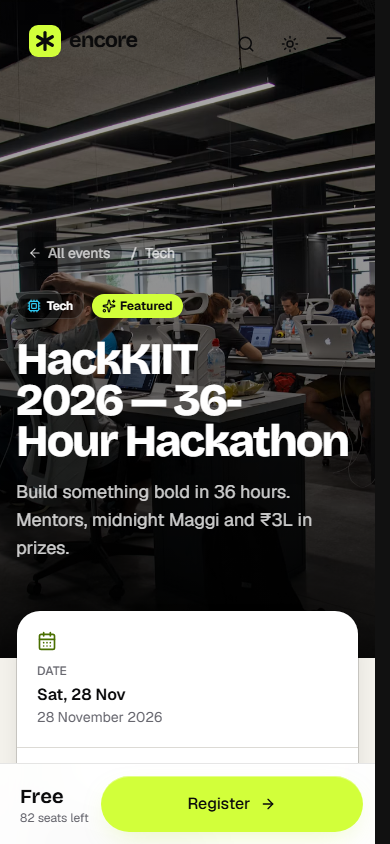
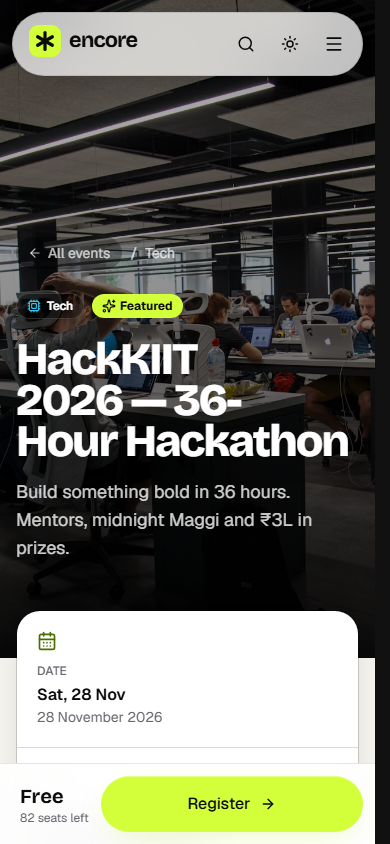
Fail fast when the database is unreachable
- API: after a failed Mongo connection, return 503 immediately for 20s
  (circuit breaker) and lower the server-selection timeout to 5s, so
  requests don't each wait on the driver before erroring.
- Client: once the bundled catalogue fallback is active, give live
  requests a 4s timeout before falling back again.
- Refresh the mobile event-page screenshot.

Changed region(s): [[0.0308, 0.0, 0.9538, 0.0924]]

diff --git a/server/src/config/db.js b/server/src/config/db.js
@@ -10,7 +10,13 @@ mongoose.set('strictQuery', true);
  * Serverless-friendly connection cache: warm invocations reuse the same
  * connection instead of opening a new pool on every request.
  */
-const cache = (globalThis.__encoreMongo ??= { conn: null, promise: null, seeded: false });
+const cache = (globalThis.__encoreMongo ??= { conn: null, promise: null, seeded: false, failedAt: 0 });
+
+// Circuit breaker: after a failed connection, fail fast for a short while instead of making
+// every request wait for the driver's server-selection timeout (the UI falls back instantly).
+const RETRY_AFTER_MS = 20_000;
+const unavailable = () =>
+  new HttpError(503, 'We could not reach the database. Please try again in a moment.', { code: 'DB_UNAVAILABLE' });
 
 export async function connectDB() {
   if (cache.conn && mongoose.connection.readyState === 1) return cache.conn;
@@ -19,10 +25,12 @@ export async function connectDB() {
     throw new HttpError(503, 'The database is not configured yet.', { code: 'DB_NOT_CONFIGURED' });
   }
 
+  if (!cache.promise && Date.now() - cache.failedAt < RETRY_AFTER_MS) throw unavailable();
+
   if (!cache.promise) {
     cache.promise = mongoose
       .connect(env.mongoUri, {
-        serverSelectionTimeoutMS: 8000,
+        serverSelectionTimeoutMS: 5000,
         maxPoolSize: 10,
         bufferCommands: false,
         appName: 'encore-api',
@@ -36,10 +44,9 @@ export async function connectDB() {
   try {
     cache.conn = await cache.promise;
   } catch (err) {
+    cache.failedAt = Date.now();
     console.error('[db] connection failed:', err.message);
-    throw new HttpError(503, 'We could not reach the database. Please try again in a moment.', {
-      code: 'DB_UNAVAILABLE',
-    });
+    throw unavailable();
   }
 
   if (env.seedOnEmpty && !cache.seeded) {

diff --git a/client/src/lib/api.js b/client/src/lib/api.js
@@ -67,7 +67,8 @@ export const isUnavailable = (err) => err instanceof ApiError && (err.status ===
  */
 async function withFallback(request, fallback) {
   try {
-    const data = await request();
+    // Already serving cached data? Don't keep users waiting on a slow/unhealthy API.
+    const data = await request(useUiStore.getState().usingFallback ? 4000 : undefined);
     if (useUiStore.getState().usingFallback) useUiStore.getState().setUsingFallback(false);
     return data;
   } catch (err) {
@@ -80,9 +81,9 @@ async function withFallback(request, fallback) {
 }
 
 export const endpoints = {
-  events: (params, signal) => withFallback(() => api('/events', { query: params, signal }), { name: 'fallbackEvents', args: [params] }),
-  eventsMeta: () => withFallback(() => api('/events/meta'), { name: 'fallbackMeta', args: [] }),
-  event: (slug) => withFallback(() => api(`/events/${encodeURIComponent(slug)}`), { name: 'fallbackEvent', args: [slug] }),
+  events: (params, signal) => withFallback((timeout) => api('/events', { query: params, signal, timeout }), { name: 'fallbackEvents', args: [params] }),
+  eventsMeta: () => withFallback((timeout) => api('/events/meta', { timeout }), { name: 'fallbackMeta', args: [] }),
+  event: (slug) => withFallback((timeout) => api(`/events/${encodeURIComponent(slug)}`, { timeout }), { name: 'fallbackEvent', args: [slug] }),
   register: (payload) => api('/registrations', { method: 'POST', body: payload }),
   myRegistrations: () => api('/registrations/me'),
   verifyTicket: (code) => api(`/registrations/${encodeURIComponent(code)}`),
